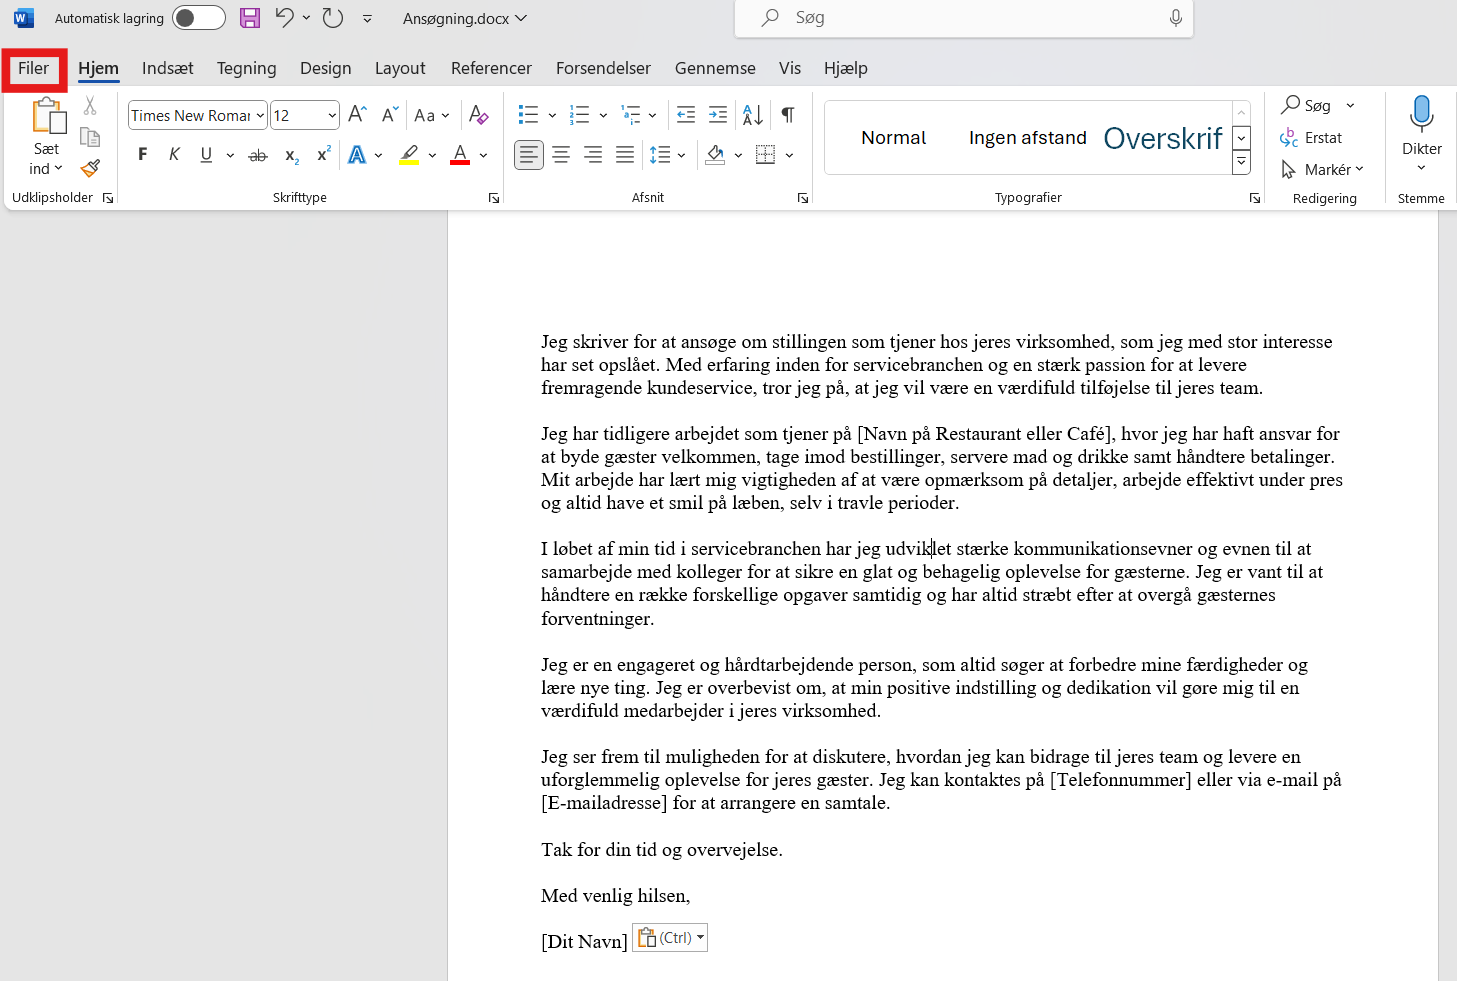
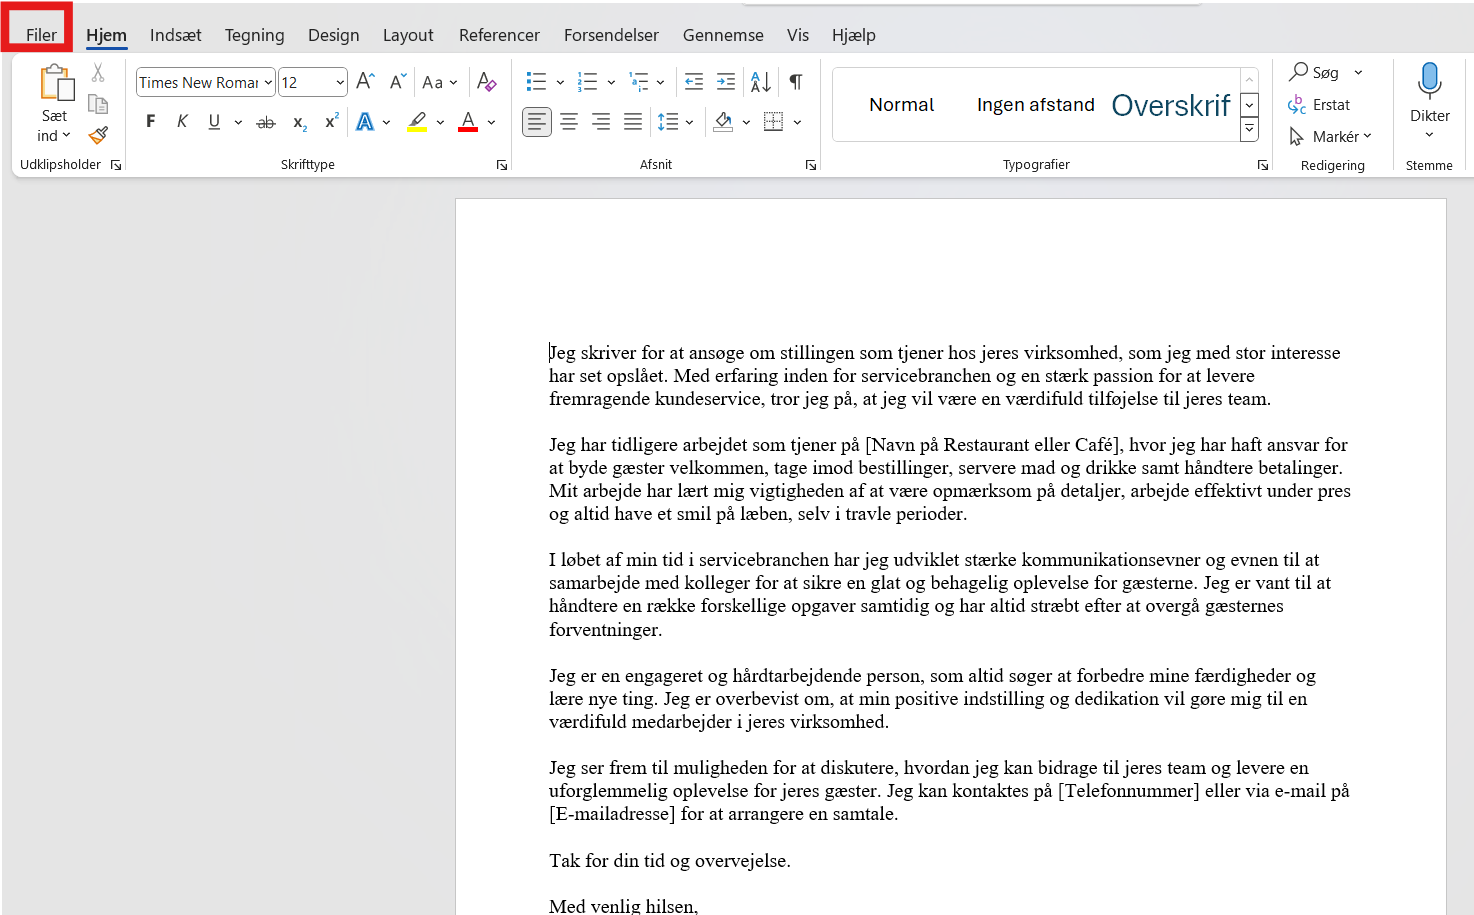
Fixed a picture and changes to css to make it look better

Changed region(s): [[0.3706, 0.3366, 0.9266, 1.0], [0.0, 0.0, 1.0, 1.0]]

diff --git a/guide/src/components/individualguide/WordToPdf/WordPdfBody.tsx b/guide/src/components/individualguide/WordToPdf/WordPdfBody.tsx
@@ -7,10 +7,13 @@ import picture5 from '../../../assets/WordToPdfPictures/picture5.png'
 import picture6 from '../../../assets/WordToPdfPictures/picture6.png'
 function WordPdfBody() {
   return (
-    <div className='flex flex-col items-left w-full'>
+    <div className='flex flex-col items-left w-full font-serif'>
       <div className='w-full h-full'>
-        <h1 className='text-center font-semibold text-3xl font-Inter'>Velkommen til Word til PDF</h1>
-        <div className='pt-6 pl-2 space-y-10 text-xs'>
+        <div className='text-center font-semibold'>
+        <h1 className='text-3xl'>Velkommen til Word til PDF</h1>
+        <h1 className=' pt-4'>Du vil lærer hvordan man konvertere fra word til pdf</h1>
+        </div>
+        <div className='pt-16 pl-2 space-y-10 text-xs'>
           <h3 className="font-normal text-lg">
             <span className="font-bold underline text-xl">1.</span> Find det Word-dokument, du vil lave om til en PDF-fil, og åben det ved at dobbeltklikke på det.
           </h3>
@@ -19,12 +22,12 @@ function WordPdfBody() {
           <h3 className="font-normal text-lg">
             <span className="font-bold underline text-xl">2.</span> Gå til 'Filer'-menuen: I øverste venstre hjørne af Word-vinduet, klik på 'Filer'. Denne knap kan også se ud som et lille ikon eller have ordet 'File' afhængigt af din version af Word.
           </h3>
-          <img src={picture2} alt="Fail" className='w-1/3'/>
+          <img src={picture2} alt="Fail" className='w-1/2'/>
 
           <h3 className="font-normal text-lg">
             <span className="font-bold underline text-xl">3.</span> Vælg 'Gem som': Når du er i 'Filer'-menuen, vælg 'Gem som'
           </h3>
-          <img src={picture3} alt="Fail" className='h-64'/>
+          <img src={picture3} alt="Fail" className='h-96'/>
 
           <h3 className="font-normal text-lg">
             <span className="font-bold underline text-xl">4.</span> Vælg hvor du vil gemme filen: Vælg den placering på din computer, hvor du vil gemme din nye PDF-fil. Det kan være på skrivebordet, i en bestemt mappe.
@@ -39,7 +42,7 @@ function WordPdfBody() {
           <h3 className="font-normal text-lg">
             <span className="font-bold underline text-xl">6.</span> Gem filen: Efter du har valgt PDF-formatet, klik på 'Gem' knappen.
           </h3>
-          <img src={picture6} alt="Fail" className='h-64 w-1/2'/>
+          <img src={picture6} alt="Fail" className='w-1/2'/>
 
         </div>
       </div>
